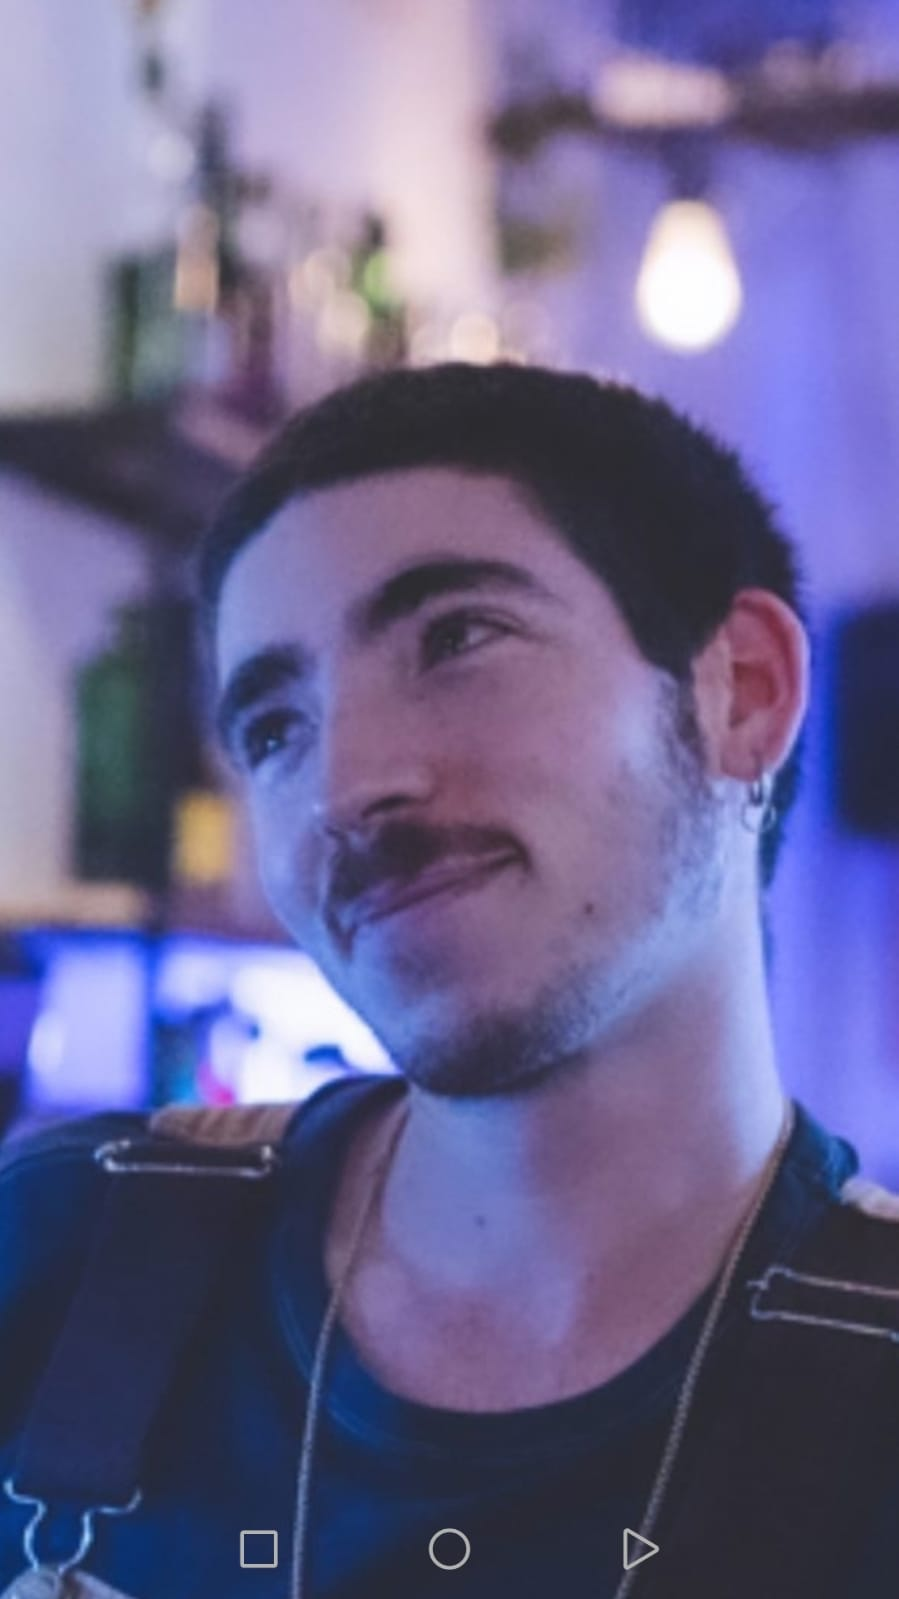
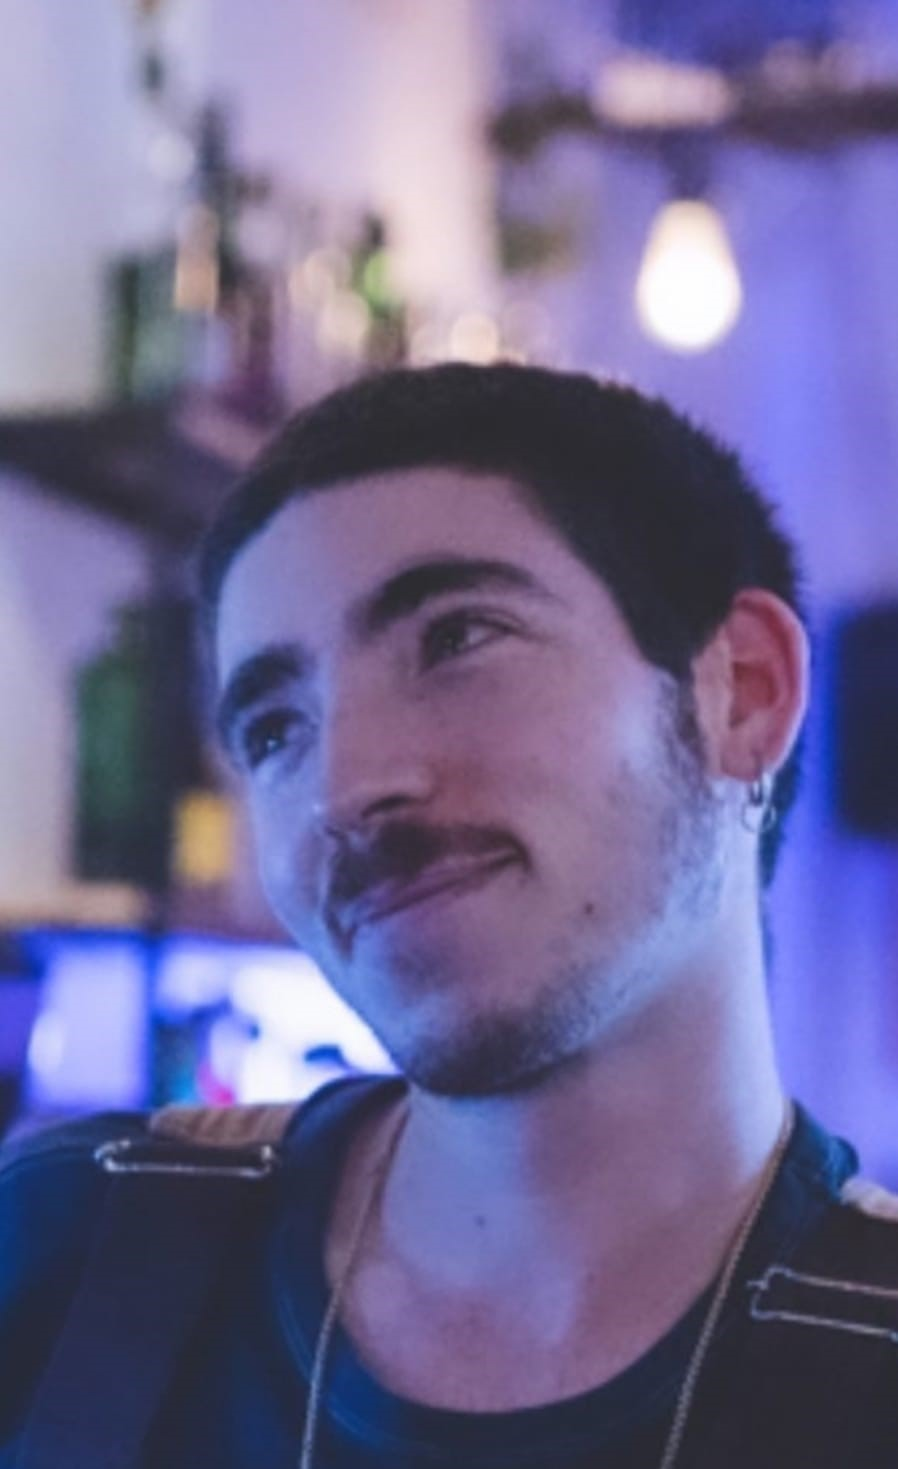
abbout page close to finish

diff --git a/ziv-portfolio/src/components/Nav.js b/ziv-portfolio/src/components/Nav.js
@@ -11,18 +11,18 @@ const Nav = () => {
         <div>
             <div className='nav'>
                 <ul>
-                <h1><Link style={{textDecoration:'none', color:'black'}} to='/'>Ziv Talmon</Link></h1>
                     <li><Link style={{textDecoration:'none', color:'black'}} to='/'>Home</Link></li>
                     <li><Link style={{textDecoration:'none', color:'black'}} to='/projects'>Projects</Link></li>
                     <li><Link style={{textDecoration:'none', color:'black'}} to='/about'>About</Link></li>
                     <li><Link style={{textDecoration:'none', color:'black'}} to='/contact'>Contact</Link></li>
                 </ul>
-
-                <ul>
-                    <li><a href='https://www.facebook.com/ziv.talmon' target='_#'><img alt='facebook-icon' src='icons8-facebook-50.png'></img></a></li>
-                    <li><a href='https://github.com/zifftalmon' target='_#'><img alt='github-icon' src='icons8-github-50.png'></img></a></li>
-                    <li><a href='https://www.linkedin.com/in/ziv-talmon-56b256233/' target='_#'><img alt='linkedin-icon' src='icons8-linkedin-circled-50.png'></img></a></li>
-                </ul>
+                    <div>
+                        <ul>
+                            <li><a href='https://www.facebook.com/ziv.talmon' target='_#'><img alt='facebook-icon' src='icons8-facebook-50.png'></img></a></li>
+                            <li><a href='https://github.com/zifftalmon' target='_#'><img alt='github-icon' src='icons8-github-50.png'></img></a></li>
+                            <li><a href='https://www.linkedin.com/in/ziv-talmon-56b256233/' target='_#'><img alt='linkedin-icon' src='icons8-linkedin-circled-50.png'></img></a></li>
+                        </ul>
+                    </div>
             </div>
             <Routes>
                 <Route path='/' element={<Home/>}/>

diff --git a/ziv-portfolio/src/styles/Project.css b/ziv-portfolio/src/styles/Project.css
@@ -1,20 +1,23 @@
 .projectContainer {
     display: grid;
     grid-template-columns: repeat(2, 1fr);
-    grid-template-rows: repeat(2, 290px);
+    grid-template-rows: repeat(2, 280px);
     align-items: center;
     justify-content: center;
-    /* margin-bottom: 8em; */
-    /* border: 3px solid red; */
+    padding: 1em;
 }
 .projectPara {
+    margin-top: 5em;
     margin-left: 10em;    
     text-align: left;
-    font-size: 15px;
 }
 .projectPara h1 {
     text-align: left;
     font-size: 50px;
+}
+.projectPara p {
+    font-size: 20px;
+    font-weight: 200;
 }
 .projectGrid {
     display: grid;
@@ -24,6 +27,8 @@
     grid-template-rows: repeat(2, 250px);
     justify-content: center;
     align-items: center;
+    height: 100%;
+    margin-bottom: 5em;
 }
 .project0,.project2 {
     display: flex;
@@ -32,9 +37,8 @@
     align-items: center;
     width: 20vw;
     height: 35vh;
-    /* border: 1px solid red; */
     padding: 0.5em;
-    background-image: linear-gradient(to right top, #89abde35, #5cb0cf35, #56b0af35, #72ab8c35, #92a17235);
+    background-image: linear-gradient(to right top, #002d5580, #00567780, #007f8280, #50a67c80, #aec67980);
     margin-bottom: 8em;
     border-top-left-radius: 30px;
     box-shadow: 5px 10px 10px 0px rgba(0,0,10,0.08);
@@ -58,11 +62,10 @@
 .project1, .project3 {
     display: flex;
     flex-direction: column;
-    background-image: linear-gradient(to right top, #89abde35, #5cb0cf35, #56b0af35, #72ab8c35, #92a17235);
+    background-image: linear-gradient(to right top, #002d5580, #00567780, #007f8280, #50a67c80, #aec67980);
     box-shadow: -5px 10px 10px 0px rgba(0,0,10,0.08);
     justify-content: center;
     align-items: center;
-    /* border: 3px solid red; */
     width: 20vw;
     height: 35vh;
     border-bottom-right-radius: 30px;

diff --git a/ziv-portfolio/src/styles/About.css b/ziv-portfolio/src/styles/About.css
@@ -1,36 +1,31 @@
-.details {
+.about {
     display: flex;
-    align-items: center;
+    flex-direction: column;
     justify-content: space-between;
-    height: 35vh;
 }
-.details img {
-    border-radius: 60%;
-    width: 12vw;
-    height: 25vh;
-    transform: rotate(10deg);
-}
-.details .contact {
+.aboutPara {
     display: flex;
-    justify-content: space-around;
-    align-items: center;
-    width: 70%;
-    height: 35vh;
-    text-align: right;
-    line-height: 2;
+    flex-direction: column;
+    justify-content: center;
+    align-items: flex-start;
+    width: 45vw;
+    height: 80%;
+    line-height: 1.5;
 }
-.details .intro {
-    width: 30%;
-    height: 35vh;
-    margin-right: 2em;
-    line-height: 3.5;
-    margin-top: 2em;
+.aboutPara h1 {
+    text-align: justify;
+    margin-left: 4.5em;
+    align-self: baseline;
 }
-.education {
-    text-align: center;
-    margin: 2em;
-    line-height: 3;
+.aboutPara p {
+    text-align: justify;
+    align-self: baseline;
+    font-size: 18px;
+    font-weight: 200;
 }
-.education ul {
-    list-style: none;
+.about img{
+    border-radius: 20px;
+    margin: 2em 23em;
+    width: 300px;
+    height: 450px;
 }

diff --git a/ziv-portfolio/src/components/Project.js b/ziv-portfolio/src/components/Project.js
@@ -5,11 +5,11 @@ const Project = () => {
         <div className='projectContainer'>
             <div className='projectPara'>
                 <h1>My Work</h1>
-                <h3>
+                <p>
                 In my designs is strive to create a comfortable, well-thought design and UI, one that is both effective and powerful in terms of movement throughout the website/app and in compatibility both the client's and the users' needs, whether they be a mobile app, a stunning website or a simple one-paged document.
                 <br/><br/>    
-                In order to bring to you the most modern and relevant designs i research in accordance to changing tyrends and to your specefic requirements
-                </h3>
+                In order to bring to you the most modern and relevant designs I research in accordance to changing tyrends and to your specefic requirements
+                </p>
             </div>
             <div className='projectGrid'>
             {

diff --git a/ziv-portfolio/src/components/About.js b/ziv-portfolio/src/components/About.js
@@ -1,8 +1,17 @@
 const About = () => {
     return(
-        <div>
-            <h1>about</h1>
-        </div>    
+        <div className="about">
+            <div className="aboutPara">
+                <h1>A Little About Myself</h1>
+                <br/>
+                <p>
+                    Starting as an independent student, my goal was to accumulate the required knowledge to becomew an experienced web-developer in order to create exciting new projects for small businesses and big companies alike.
+                    <br/>
+                    My goal is to help my client's achieve the product they envision in order to develope their brand
+                </p>
+            </div>    
+                <img src='WhatsApp Image 2022-12-04 at 16.05.59.jpeg'/>
+        </div>
     )
 }
 

diff --git a/ziv-portfolio/src/styles/Nav.css b/ziv-portfolio/src/styles/Nav.css
@@ -2,19 +2,22 @@
     display: flex;
     flex-direction: column;
     position:absolute;
-    width: 10vw;
+    width: 8vw;
     height: 60vw;
     justify-content: space-between;
     align-items: center;
-    background-color: #736e7c81;
+    background-color: #89ABDE55;
     font-weight: 300;
+    border-right: 1px solid rgba(0, 0, 0, 0.192);
 }
 .nav ul {
     list-style: none;
 }
 .nav ul li {
-    margin: 0.5em;
+    text-align: center;
+    margin-top: 2em;
     transition: 0.3s;
+    font-size: 20px;
 }
 .nav ul li:hover {
     scale: 1.1;

diff --git a/ziv-portfolio/src/App.css b/ziv-portfolio/src/App.css
@@ -3,10 +3,11 @@
   padding: 0;
 }
 body {
-  background-color: #EAEAEA;
+  /* background-color: #A2ACBD; */
   margin: 0;
   padding: 0;
-  text-align: center;
+  /* text-align: center; */
+  background-color: #6A9A8B20;
 }
 .App {
   font-family: 'Lexend Deca', sans-serif;
